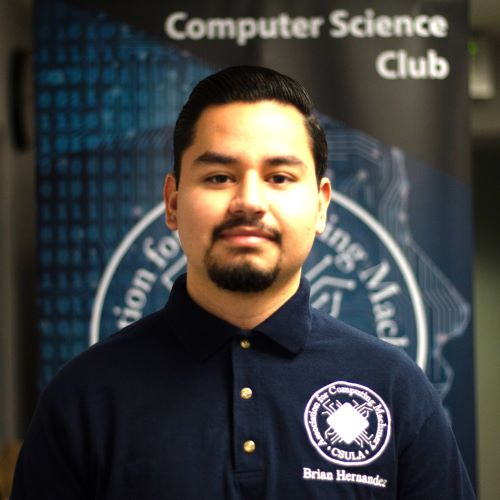
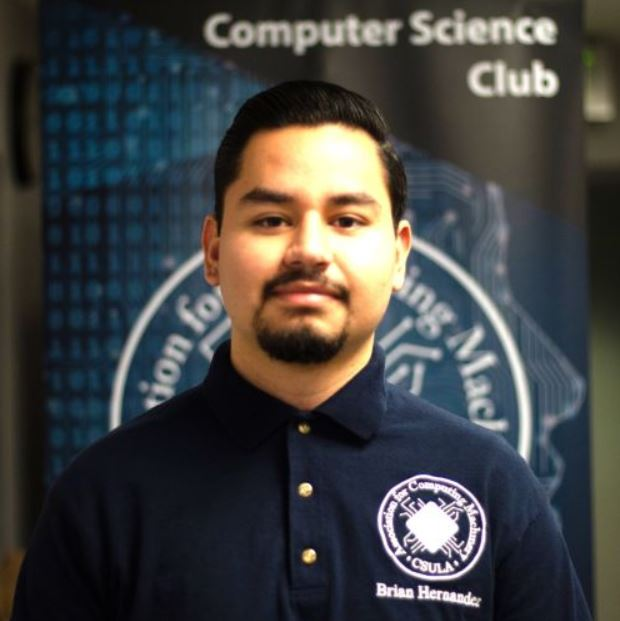
ACMW-0065: Replaced broken images and other changes

diff --git a/src/components/projects/Projects.js b/src/components/projects/Projects.js
@@ -234,7 +234,7 @@ class Projects extends React.Component {
                                                         technologies={['HTML5', 'CSS', 'JavaScript', 'Bootstrap']}
                                                         poster='./spring2019/web-flyer.jpg'
                                                         projectImages={['./spring2019/web1.jpg', './spring2019/web2.jpg', './spring2019/web3.jpg', './spring2019/web4.jpg', './spring2019/web5.jpg', './spring2019/web6.jpg']}
-                                                        projectLeadersImages={['./leaders/Deric.JPG', './leaders/Brian.jpg']}
+                                                        projectLeadersImages={['./leaders/Deric.JPG', './leaders/Brian.JPG']}
                                                         projectLeaders={['Deric Kwok', 'Brian Hernandez']}
                                                         />
                                                 </Tab.Pane>
@@ -276,8 +276,8 @@ class Projects extends React.Component {
                                                         technologies={['C++', 'Arduino']}
                                                         poster='./fall2018/fall-2018-flyer.png'
                                                         projectImages={['./fall2018/arduino1.jpg', './fall2018/arduino2.jpg', './fall2018/arduino3.jpg', './fall2018/arduino4.jpg', './fall2018/arduino5.jpg', './fall2018/arduino6.jpg']}
-                                                        projectLeadersImages={['./leaders/Brian.jpg', './leaders/Gio G.jpg']}
-                                                        projectLeaders={['Brian Hernandez', 'Giovanni Garcia']}
+                                                        projectLeadersImages={['./leaders/Gio G.jpg', './leaders/Brian.JPG']}
+                                                        projectLeaders={['Giovanni Garcia', 'Brian Hernandez']}
                                                         />
                                                 </Tab.Pane>
 
@@ -289,7 +289,7 @@ class Projects extends React.Component {
                                                         technologies={['Java', 'JavaScript', 'MySQL', 'Vue.js', 'Maven wrapper', 'Git/GitHub version control']}
                                                         poster='./fall2018/fall-2018-flyer.png'
                                                         projectImages={['./fall2018/social1.jpg', './fall2018/social2.jpg', './fall2018/social3.jpg']}
-                                                        projectLeadersImages={['./leaders/Pranil.jpg']}
+                                                        projectLeadersImages={['./leaders/Pranil.JPG']}
                                                         projectLeaders={['Pranil Dahal']}
                                                         />
                                                 </Tab.Pane>

diff --git a/src/components/programs/Mentorship.js b/src/components/programs/Mentorship.js
@@ -13,13 +13,13 @@ class Mentorship extends React.Component {
                     <img src={require("./pictures/fall2020-mentorship-flyer.png")} className="img-fluid programs-poster" alt="mentorship flyer"></img>
                     <br></br><br></br>
                     
-                    <Nav variant="tabs">
+                    <Nav variant="pills">
                         <Nav.Item>
-                            <Nav.Link className="anchor-blue" eventKey="menteeRole">Mentee</Nav.Link>
+                            <Nav.Link className="programs-nav-link-tab anchor-white" eventKey="menteeRole">Mentee</Nav.Link>
                         </Nav.Item>
                         {/* Mentor sign up */}
                         {/*<Nav.Item>
-                            <Nav.Link className="anchor-blue" eventKey="mentorRole">Mentor</Nav.Link>
+                            <Nav.Link className="programs-nav-link-tab anchor-white" eventKey="mentorRole">Mentor</Nav.Link>
                         </Nav.Item>*/}
                     </Nav>
                     <Tab.Content className="programs-tab-content">

diff --git a/src/components/projects/NewProject.js b/src/components/projects/NewProject.js
@@ -2,7 +2,7 @@ import React from 'react'
 import "./Projects.css"
 import "react-responsive-carousel/lib/styles/carousel.min.css";
 import { Carousel } from 'react-responsive-carousel';
-import {Button} from 'react-bootstrap'
+import {Button, Container} from 'react-bootstrap'
 import 'bootstrap/dist/css/bootstrap.css'
 
 class NewProject extends React.Component {
@@ -23,6 +23,7 @@ class NewProject extends React.Component {
         return (
             <div>
                 <br></br>
+                <Container fluid>
                 <b>{this.props.opener} </b>{this.props.description}<br></br><br></br>
                 
                 {button}<br></br><br></br>
@@ -33,7 +34,7 @@ class NewProject extends React.Component {
                         return <li>{value}</li>
                     })}
                 </ul>
-
+                </Container>
                 <img src={require('' + this.props.poster)} className="img-fluid project-poster" alt="project poster"></img>     
 
                 <br></br><br></br>                   

diff --git a/src/components/programs/Programs.css b/src/components/programs/Programs.css
@@ -18,7 +18,7 @@
 }
 
 .programs-nav-link-tab {
-    outline: 1px solid #029CD7;
+    outline: 1px solid white;
 }
 
 .disclaimer-body {
